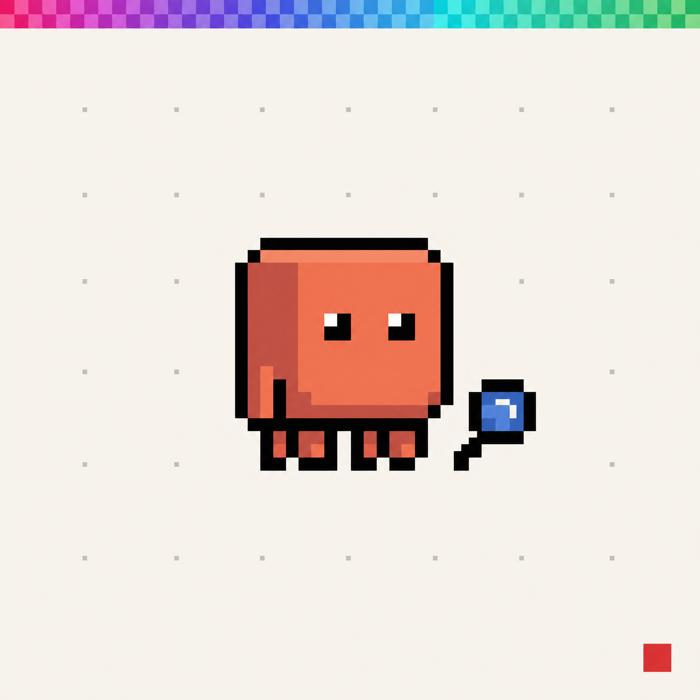
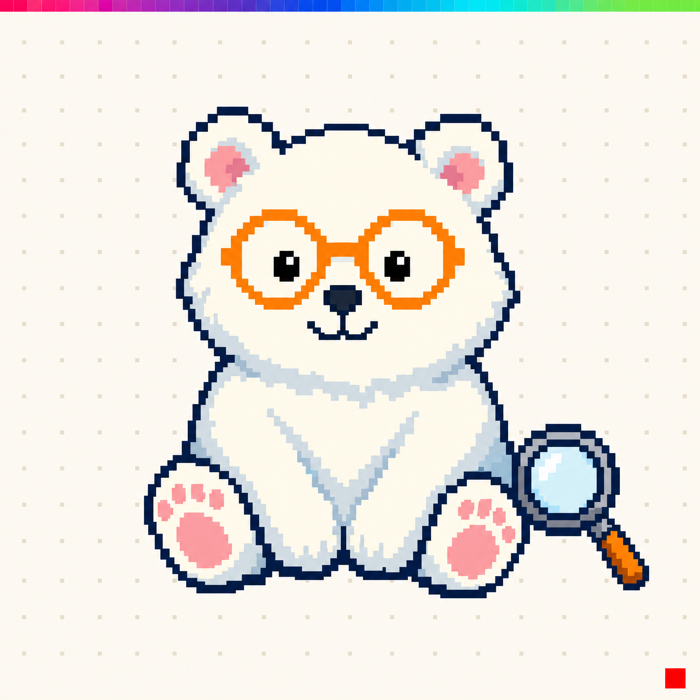
Rebrand mascot to the tododeia bear (white cub + orange glasses)
Regenerated all 6 pixel-art assets with GPT Image 2, referencing the tododeia
mascot, and updated README alt text + license note. Same tododeia style (cream,
rainbow bar, red square). Fixer art shows a legible <meta> diff + safety tagline.

Changed region(s): [[0.18, 0.15, 0.93, 0.87], [0.0, 0.0, 1.0, 0.06], [0.9, 0.9, 0.99, 0.99]]

diff --git a/README.md b/README.md
@@ -1,5 +1,5 @@
 <p align="center">
-  <img src="assets/hero.png" alt="claude-seo-ai — SEO + AI-search toolkit for Claude Code, with the Claude pixel mascot" width="840">
+  <img src="assets/hero.png" alt="claude-seo-ai — SEO + AI-search toolkit for Claude Code, with the tododeia pixel mascot (a white bear with orange glasses)" width="840">
 </p>
 
 <h1 align="center">claude-seo-ai</h1>
@@ -61,7 +61,7 @@ The plugin works **fully offline** (Tier 0, no keys). See [Data tiers](#data-tie
 ## Two scores, never blended
 
 <p align="center">
-  <img src="assets/dual-score.png" alt="Two pixel-art scoreboards — SEARCH and AI — with the Claude mascot between them" width="720">
+  <img src="assets/dual-score.png" alt="Two pixel-art scoreboards — SEARCH and AI — with the tododeia bear mascot between them" width="720">
 </p>
 
 Every audit reports two **0–100** scores with letter bands (A–F) and a one-line interpretation ([details](references/scoring-model.md)):
@@ -74,7 +74,7 @@ Severity gating caps a score at **F** if something critical fails (e.g. site-wid
 ## How it works
 
 <p align="center">
-  <img src="assets/how-it-works.png" alt="Three-step pixel flow: mascot → magnifying glass over code → report with green checkmarks" width="760">
+  <img src="assets/how-it-works.png" alt="Three-step pixel flow: the tododeia bear → magnifying glass over code → report with green checkmarks" width="760">
 </p>
 
 A skill-first, three-layer design (Claude is the runtime; the Node helpers are optional):
@@ -100,7 +100,7 @@ A complete 2026 suite, grouped:
 ## Get cited by AI engines
 
 <p align="center">
-  <img src="assets/ai-citations.png" alt="The mascot beside a webpage being cited by pixel AI chat bubbles and robots" width="760">
+  <img src="assets/ai-citations.png" alt="The tododeia bear beside a webpage being cited by pixel AI chat bubbles and robots" width="760">
 </p>
 
 The GEO/AEO modules score how *citable* your content is: self-contained answer blocks, fact density, original data, entity linking, and whether retrieval bots (`OAI-SearchBot`, `Claude-SearchBot`, `PerplexityBot`) can actually reach and render your page. See [`references/ai-crawlers.md`](references/ai-crawlers.md).
@@ -108,7 +108,7 @@ The GEO/AEO modules score how *citable* your content is: self-contained answer b
 ## The opt-in fixer
 
 <p align="center">
-  <img src="assets/fixer.png" alt="The mascot with a pixel wrench fixing a code window showing a green-plus diff line" width="760">
+  <img src="assets/fixer.png" alt="The tododeia bear with a pixel wrench fixing a code window showing a green-plus diff line" width="760">
 </p>
 
 The fixer ([`skills/fix`](skills/fix/SKILL.md)) is `disable-model-invocation: true` — Claude can **never** trigger writes on its own. Only `/claude-seo-ai:fix` does, and only the one writer subagent (`seo-fixer-writer`) has Write/Edit; every auditor is read-only by tool allowlist.
@@ -172,7 +172,7 @@ tests/fixtures    sample sites for verification
 ## About
 
 <p align="center">
-  <img src="assets/about.png" alt="Pixel-art Claude mascot avatar" width="300">
+  <img src="assets/about.png" alt="Pixel-art tododeia mascot — a white bear with orange glasses" width="300">
 </p>
 
 Built by **Enrique Rocha** — I help teams ship AI: consulting, automations, and agents. This is a community, MIT-licensed project: use it, fork it, open issues and PRs (see [`CONTRIBUTING.md`](CONTRIBUTING.md)).
@@ -182,7 +182,7 @@ Built by **Enrique Rocha** — I help teams ship AI: consulting, automations, an
 
 ## License
 
-[MIT](LICENSE) · *Claude mascot artwork generated for this project in pixel-art style.*
+[MIT](LICENSE) · *tododeia mascot artwork generated for this project in pixel-art style.*
 
 ---
 
